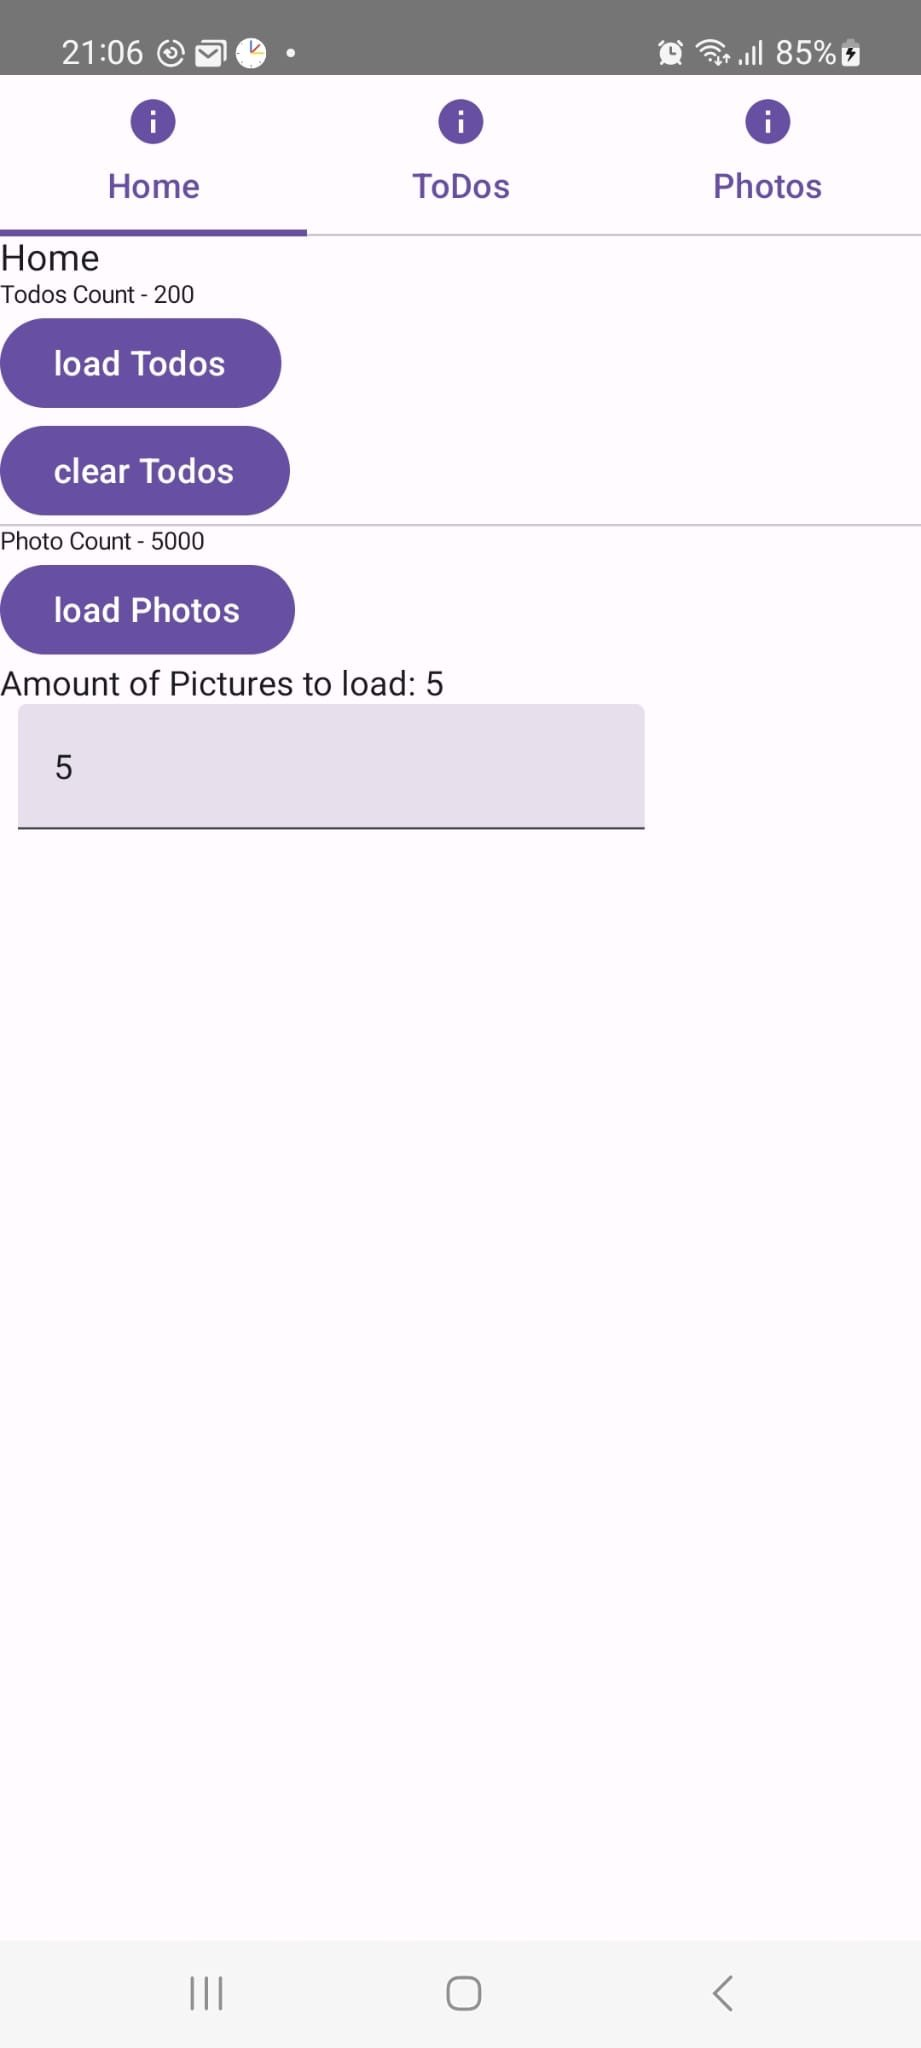
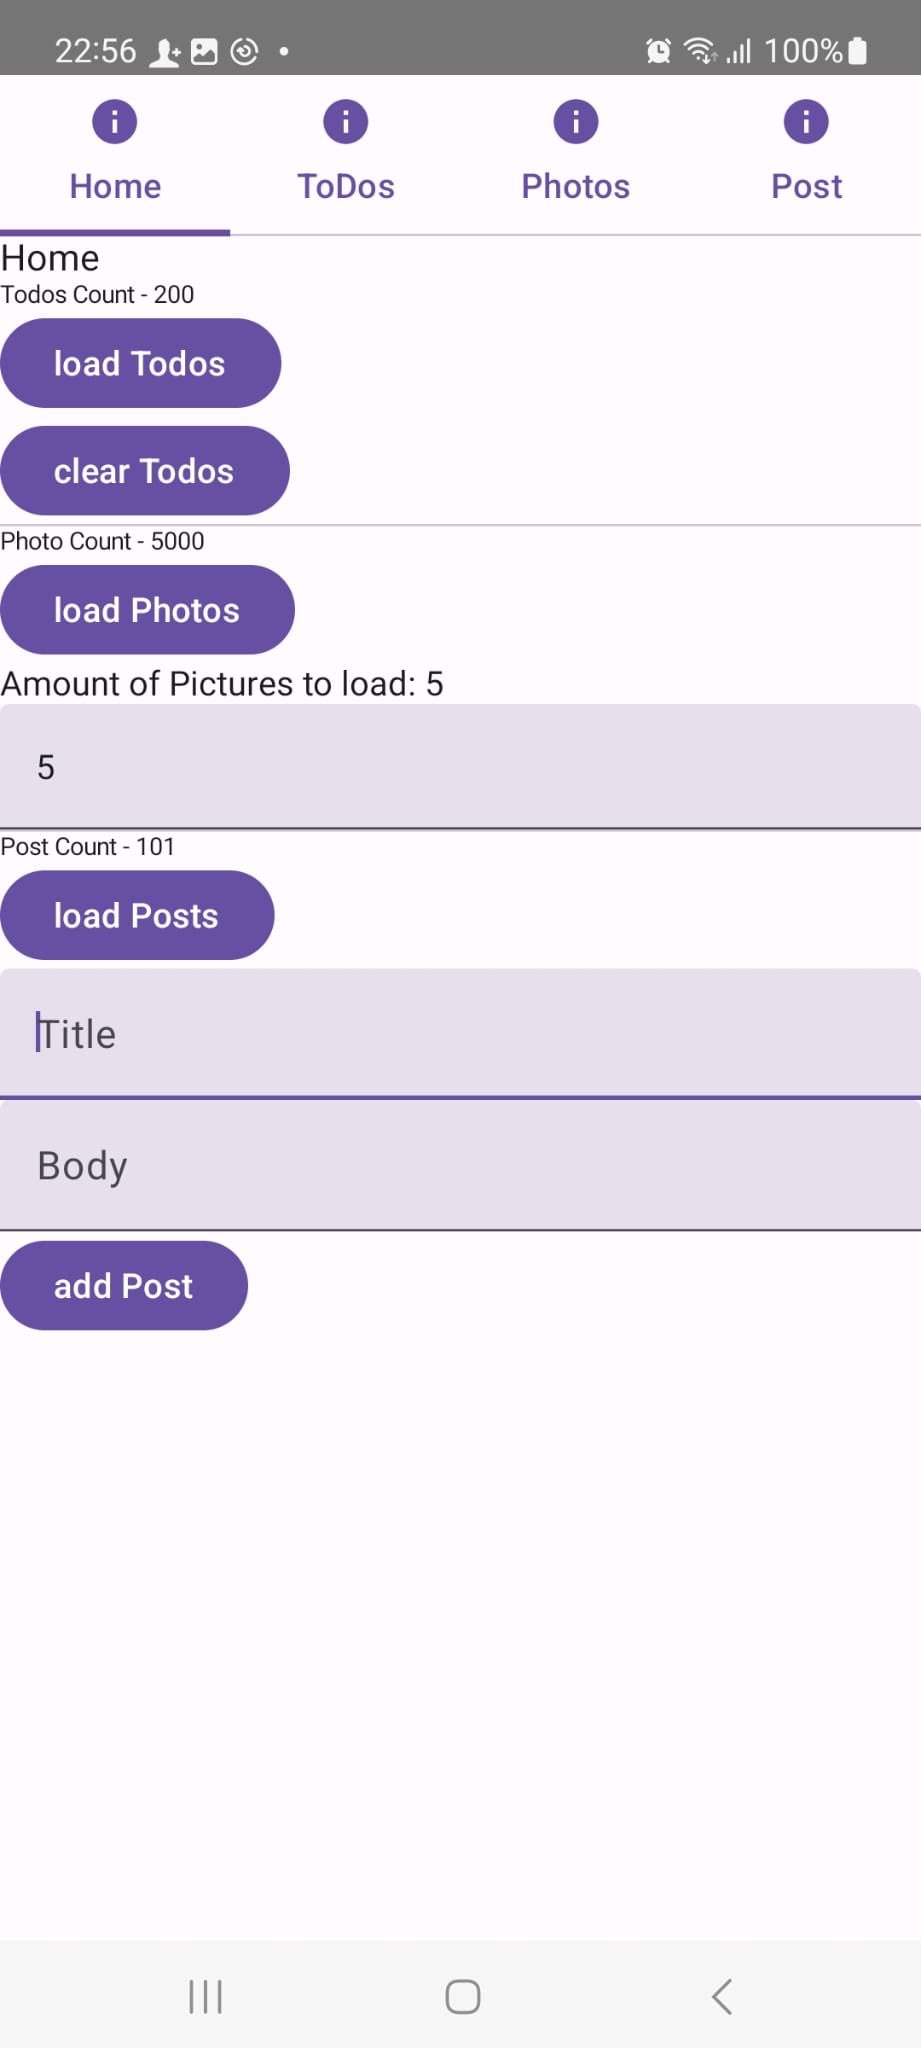
add Post - new Tab/Get/Post

diff --git a/additionalTask/app/src/main/java/at/htl/additionaltask/ui/layout/HomeScreen.kt b/additionalTask/app/src/main/java/at/htl/additionaltask/ui/layout/HomeScreen.kt
@@ -7,24 +7,34 @@ import androidx.compose.foundation.layout.fillMaxWidth
 import androidx.compose.foundation.layout.padding
 import androidx.compose.foundation.text.KeyboardOptions
 import androidx.compose.material3.Button
-import androidx.compose.material3.Divider
 import androidx.compose.material3.HorizontalDivider
 import androidx.compose.material3.Text
 import androidx.compose.material3.TextField
 import androidx.compose.runtime.Composable
+import androidx.compose.runtime.getValue
+import androidx.compose.runtime.mutableStateOf
+import androidx.compose.runtime.remember
+import androidx.compose.runtime.setValue
 import androidx.compose.ui.Modifier
-import androidx.compose.ui.graphics.Color
 import androidx.compose.ui.text.input.KeyboardType
 import androidx.compose.ui.unit.dp
 import androidx.compose.ui.unit.sp
 import at.htl.additionaltask.model.Model
 import at.htl.additionaltask.model.Store
 import at.htl.additionaltask.model.photos.PhotoService
+import at.htl.additionaltask.model.post.PostDto
+import at.htl.additionaltask.model.post.PostService
 import at.htl.additionaltask.model.todo.TodoService
 
 
 @Composable
-fun HomeScreen(model: Model, store: Store, todoService: TodoService, photoService: PhotoService) {
+fun HomeScreen(
+    model: Model,
+    store: Store,
+    todoService: TodoService,
+    photoService: PhotoService,
+    postService: PostService
+) {
 
     var todos = model.todos
     var photos = model.photos
@@ -88,9 +98,61 @@ fun HomeScreen(model: Model, store: Store, todoService: TodoService, photoServic
                     store.setPictureAmount(newValue.toIntOrNull() ?: 0)
                 },
                 keyboardOptions = KeyboardOptions(keyboardType = KeyboardType.Number),
-                modifier = Modifier.padding(horizontal = 8.dp)
+                modifier = Modifier.fillMaxWidth()
             )
         }
+
+        HorizontalDivider()
+
+        Row (){
+            Text(
+                text = "Post Count - " + model.posts.size,
+                fontSize = 10.sp
+            )
+        }
+        Row (){
+            Button(
+                onClick = { postService.getAll() }) {
+                Text("load Posts")
+            }
+        }
+
+        var postTitle by remember { mutableStateOf("") }
+        var postBody by remember { mutableStateOf("") }
+
+        Row {
+            TextField(
+                value = postTitle,
+                onValueChange = { value ->
+                    postTitle = value
+                },
+                placeholder = { Text("Title") },
+                modifier = Modifier.fillMaxWidth()
+            )
+        }
+        Row {
+            TextField(
+                value = postBody,
+                onValueChange = { value ->
+                    postBody = value
+                },
+                placeholder = { Text("Body") },
+                modifier = Modifier.fillMaxWidth()
+            )
+        }
+        Row {
+            Button(
+                onClick = {
+                    postService.createPost(PostDto(1,postTitle,postBody),model.posts.size)
+                    postTitle = ""
+                    postBody = ""
+                }) {
+                Text("add Post")
+            }
+        }
+
+
+
     }
 
 }

diff --git a/additionalTask/app/src/main/java/at/htl/additionaltask/ui/layout/PostScreen.kt b/additionalTask/app/src/main/java/at/htl/additionaltask/ui/layout/PostScreen.kt
@@ -1,0 +1,62 @@
+package at.htl.additionaltask.ui.layout
+
+import androidx.compose.foundation.layout.padding
+import androidx.compose.foundation.lazy.LazyColumn
+import androidx.compose.material3.Text
+import androidx.compose.runtime.Composable
+import androidx.compose.ui.unit.dp
+import at.htl.additionaltask.model.Model
+import androidx.compose.foundation.layout.Row
+import androidx.compose.foundation.layout.Spacer
+import androidx.compose.foundation.layout.fillMaxWidth
+import androidx.compose.foundation.layout.padding
+import androidx.compose.foundation.layout.width
+import androidx.compose.foundation.lazy.LazyColumn
+import androidx.compose.material3.Checkbox
+import androidx.compose.material3.HorizontalDivider
+import androidx.compose.material3.MaterialTheme
+import androidx.compose.material3.Text
+import androidx.compose.ui.Alignment
+import androidx.compose.ui.unit.dp
+import androidx.compose.ui.layout.ContentScale
+import at.htl.additionaltask.model.photos.Photo
+import androidx.compose.ui.graphics.painter.Painter
+import androidx.compose.ui.platform.LocalContext
+import androidx.compose.ui.res.stringResource
+import at.htl.additionaltask.R
+import coil.compose.AsyncImage
+import coil.request.ImageRequest
+import androidx.compose.ui.Modifier
+import at.htl.additionaltask.model.post.Post
+
+@Composable
+fun PostScreen(model: Model) {
+
+    var posts = model.posts
+
+    if (posts.size == 0) {
+        Text(
+            text = "No Data"
+        )
+        return;
+    }
+
+    LazyColumn (
+        modifier = Modifier.padding(16.dp)
+    ) {
+        items(posts.size){ index ->
+            RowPost(index = index,post = posts[index])
+            HorizontalDivider()
+        }
+    }
+
+}
+
+@Composable
+fun RowPost(index: Int, post: Post){
+    Row {
+        Text(
+            text = (index+1).toString()+": "+post.title
+        )
+    }
+}

diff --git a/additionalTask/app/src/main/java/at/htl/additionaltask/ui/layout/TabScreen.kt b/additionalTask/app/src/main/java/at/htl/additionaltask/ui/layout/TabScreen.kt
@@ -13,14 +13,20 @@ import androidx.compose.ui.Modifier
 import at.htl.additionaltask.model.Model
 import at.htl.additionaltask.model.Store
 import at.htl.additionaltask.model.photos.PhotoService
+import at.htl.additionaltask.model.post.PostService
 import at.htl.additionaltask.model.todo.TodoService
 
 @Composable
-fun TabScreen (model: Model, store: Store, todoService: TodoService, photoService: PhotoService, ){
+fun TabScreen (
+    model: Model,
+    store: Store,
+    todoService: TodoService,
+    photoService: PhotoService,
+    postService: PostService, ){
 
     var uiState = model.uiState
     var tabIndex = uiState.selectedTab
-    var tabs = listOf("Home", "ToDos", "Photos")
+    var tabs = listOf("Home", "ToDos", "Photos", "Post")
 
     Column (
         modifier = Modifier.fillMaxSize()
@@ -41,9 +47,10 @@ fun TabScreen (model: Model, store: Store, todoService: TodoService, photoServic
         }
 
         when(tabIndex){
-            0 -> HomeScreen(model, store, todoService, photoService)
+            0 -> HomeScreen(model, store, todoService, photoService, postService)
             1 -> TodoScreen(model, store)
             2 -> PhotosScreen(model)
+            3 -> PostScreen(model)
         }
 
     }

diff --git a/additionalTask/app/src/main/java/at/htl/additionaltask/ui/layout/MainView.kt b/additionalTask/app/src/main/java/at/htl/additionaltask/ui/layout/MainView.kt
@@ -9,6 +9,7 @@ import androidx.compose.ui.platform.ComposeView
 import at.htl.additionaltask.model.Model
 import at.htl.additionaltask.model.Store
 import at.htl.additionaltask.model.photos.PhotoService
+import at.htl.additionaltask.model.post.PostService
 import at.htl.additionaltask.model.todo.TodoService
 import io.reactivex.rxjava3.android.schedulers.AndroidSchedulers
 import javax.inject.Inject
@@ -25,6 +26,8 @@ class MainView {
     lateinit var todoService: TodoService;
     @Inject
     lateinit var photoService: PhotoService
+    @Inject
+    lateinit var postService: PostService
 
     fun buildContent(activity: ComponentActivity){
         var view = ComposeView(activity)
@@ -35,7 +38,7 @@ class MainView {
             Surface (
                 modifier = Modifier.fillMaxSize()
             ) {
-                TabScreen(viewModel, store, todoService, photoService)
+                TabScreen(viewModel, store, todoService, photoService, postService)
             }
 
         }

diff --git a/additionalTask/app/src/main/java/at/htl/additionaltask/model/post/PostService.java b/additionalTask/app/src/main/java/at/htl/additionaltask/model/post/PostService.java
@@ -1,0 +1,66 @@
+package at.htl.additionaltask.model.post;
+
+import android.util.Log;
+
+import java.util.concurrent.CompletableFuture;
+
+import javax.inject.Inject;
+
+import at.htl.additionaltask.model.Model;
+import at.htl.additionaltask.model.Store;
+import at.htl.additionaltask.util.resteasy.RestApiClientBuilder;
+
+public class PostService {
+    public final String Tag = PostService.class.getName();
+
+    public static String JSON_PLACEHOLDER_BASE_URL = "https://jsonplaceholder.typicode.com";
+
+    public PostClient postClient;
+    public Store store;
+
+    @Inject
+    PostService(RestApiClientBuilder builder, Store store){
+        Log.i(Tag, "Created Url" + JSON_PLACEHOLDER_BASE_URL);
+        postClient = builder.build(PostClient.class , JSON_PLACEHOLDER_BASE_URL);
+        this.store = store;
+    }
+
+    public void getAll(){
+        CompletableFuture
+                .supplyAsync(()->postClient.all())
+                .thenAccept(x->store.setPosts(x))
+                .exceptionally((e) -> {
+                    Log.e(Tag, "Error loading todos", e);
+                    return null;
+                });
+    }
+
+    public void createPost(PostDto postDto, int id){
+        if (postDto.title() == ""||postDto.body() == ""){
+            return;
+        }
+
+        CompletableFuture
+                .supplyAsync(()->postClient.create(postDto))
+//                .thenAccept((x)->postClient.all())
+//                .thenAccept((x)->store.setPosts(x))
+                //Kann ich nicht machen, da der Server nicht aktuallisiert wird
+                .exceptionally((e) -> {
+                    Log.e(Tag, "Error loading todos", e);
+                    return null;
+                });
+
+
+
+
+        Post post = new Post();
+        post.userId = postDto.userId();
+        post.title = postDto.title();
+        post.body = postDto.body();
+        post.id = (long) (id + 1);
+        //Ich muss die ID so übergeben, da mann nicht das Model Injecten kann und wie gesagt ich mir nciht die Id über den Rest holen kann.
+
+        store.addPost(post);
+    }
+
+}

diff --git a/additionalTask/app/src/main/java/at/htl/additionaltask/model/Store.java b/additionalTask/app/src/main/java/at/htl/additionaltask/model/Store.java
@@ -1,9 +1,12 @@
 package at.htl.additionaltask.model;
 
+import java.util.List;
+
 import javax.inject.Inject;
 import javax.inject.Singleton;
 
 import at.htl.additionaltask.model.photos.Photo;
+import at.htl.additionaltask.model.post.Post;
 import at.htl.additionaltask.model.todo.Todo;
 import at.htl.additionaltask.util.store.StoreBase;
 
@@ -35,4 +38,19 @@ public class Store extends StoreBase<Model> {
     public void setPictureAmount(int amount){
         apply(model -> model.uiState.amountLoadPictures = amount);
     }
+
+    public void setPosts (List<Post> posts){
+        apply(model -> model.posts = posts);
+    }
+    public void addPost(Post post) {
+      /*  apply(model ->{
+            Post[] newPosts = new Post[model.posts.length + 1];
+            System.arraycopy(model.posts, 0, newPosts, 0, model.posts.length);
+            newPosts[model.posts.length] = post;
+            model.posts = newPosts;
+        });*/
+
+        apply(model -> model.posts.add(post));
+    }
+
 }

diff --git a/additionalTask/app/src/main/java/at/htl/additionaltask/model/post/Post.java b/additionalTask/app/src/main/java/at/htl/additionaltask/model/post/Post.java
@@ -1,0 +1,16 @@
+package at.htl.additionaltask.model.post;
+
+public class Post {
+
+    public Long userId;
+    public Long id;
+    public String title;
+    public String body;
+
+//    {
+//        "userId": 1,
+//            "id": 1,
+//            "title": "sunt aut facere repellat provident occaecati excepturi optio reprehenderit",
+//            "body": "quia et suscipit\nsuscipit recusandae consequuntur expedita et cum\nreprehenderit molestiae ut ut quas totam\nnostrum rerum est autem sunt rem eveniet architecto"
+//    },
+}

diff --git a/additionalTask/app/src/main/java/at/htl/additionaltask/model/Model.java b/additionalTask/app/src/main/java/at/htl/additionaltask/model/Model.java
@@ -1,7 +1,13 @@
 package at.htl.additionaltask.model;
 
 
+import java.util.ArrayList;
+import java.util.List;
+
+import javax.inject.Inject;
+
 import at.htl.additionaltask.model.photos.Photo;
+import at.htl.additionaltask.model.post.Post;
 import at.htl.additionaltask.model.todo.Todo;
 
 public class Model {
@@ -13,5 +19,6 @@ public class Model {
     public UIState uiState = new UIState();
     public Todo[] todos = new Todo[0];
     public Photo[] photos = new Photo[0];
+    public List<Post> posts = List.of();
 
 }

diff --git a/additionalTask/app/src/main/java/at/htl/additionaltask/model/post/PostClient.java b/additionalTask/app/src/main/java/at/htl/additionaltask/model/post/PostClient.java
@@ -1,0 +1,20 @@
+package at.htl.additionaltask.model.post;
+
+import java.util.List;
+
+import jakarta.ws.rs.Consumes;
+import jakarta.ws.rs.GET;
+import jakarta.ws.rs.POST;
+import jakarta.ws.rs.PUT;
+import jakarta.ws.rs.Path;
+import jakarta.ws.rs.core.MediaType;
+
+@Path("/posts")
+@Consumes(MediaType.APPLICATION_JSON)
+public interface PostClient {
+    @GET
+    List<Post> all();
+
+    @POST
+    Post create(PostDto post);
+}

diff --git a/additionalTask/app/src/main/java/at/htl/additionaltask/model/post/PostDto.java b/additionalTask/app/src/main/java/at/htl/additionaltask/model/post/PostDto.java
@@ -1,0 +1,7 @@
+package at.htl.additionaltask.model.post;
+
+public record PostDto (
+     Long userId,
+    String title,
+    String body
+){}
